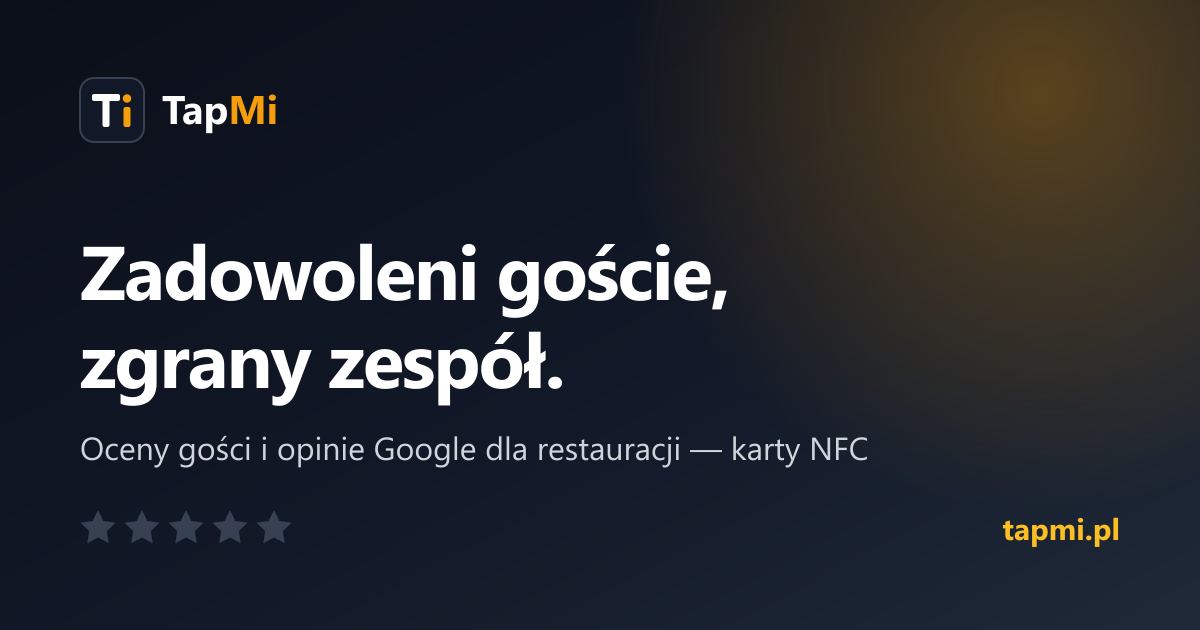
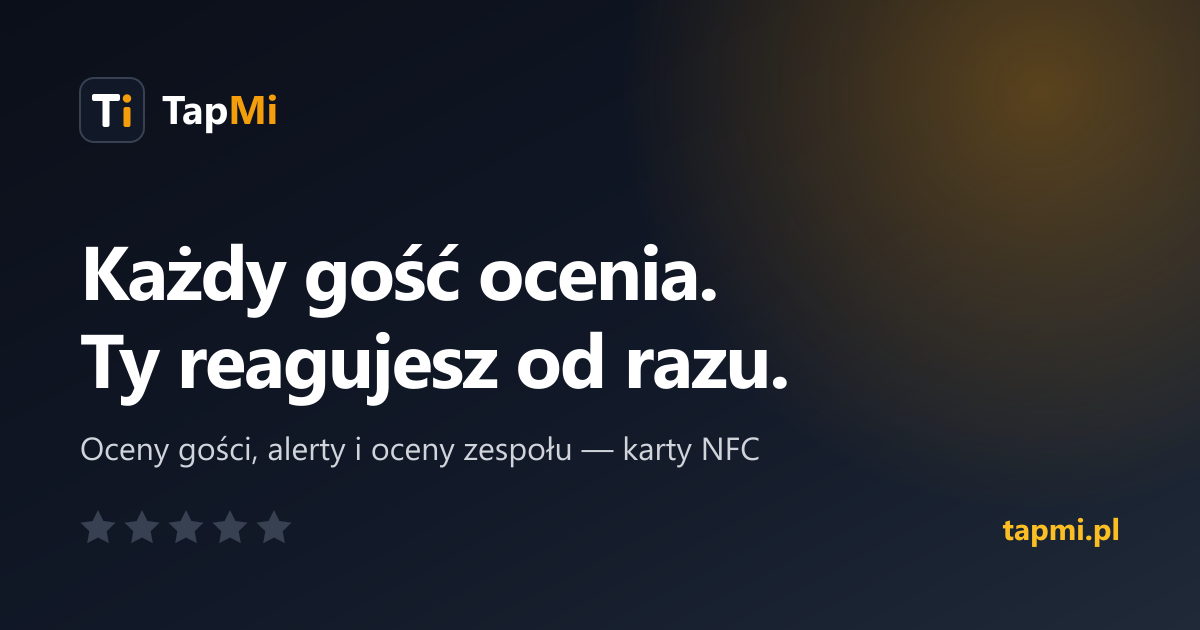
Lead with TapMi, not Google: new slogan "Każdy gość ocenia. Ty reagujesz od razu.", Google cut from 13 to 3 visible mentions, new share image

Changed region(s): [[0.0617, 0.3921, 0.6783, 0.6635], [0.2158, 0.6937, 0.74, 0.754]]

diff --git a/public/index.html b/public/index.html
@@ -3,14 +3,14 @@
 <head>
 <meta charset="UTF-8">
 <meta name="viewport" content="width=device-width, initial-scale=1">
-<title>Opinie Google dla restauracji – karty NFC | TapMi</title>
-<meta name="description" content="Karta NFC na stoliku: goście oceniają wizytę w kilka sekund, a o niskiej ocenie wiesz od razu. Więcej zaproszeń do opinii Google, zgodnie z zasadami.">
+<title>Oceny gości i opinie Google – karty NFC dla restauracji | TapMi</title>
+<meta name="description" content="Karta NFC na stoliku: gość ocenia wizytę w kilka sekund, a o niskiej ocenie wiesz od razu. Oceny zespołu i zaproszenie do opinii Google dla każdego.">
 <link rel="canonical" href="https://tapmi.pl/">
 <link rel="alternate" hreflang="pl" href="https://tapmi.pl/">
 <link rel="alternate" hreflang="en" href="https://tapmi.pl/en/">
 <link rel="alternate" hreflang="x-default" href="https://tapmi.pl/">
-<meta property="og:title" content="Opinie Google dla restauracji – karty NFC | TapMi">
-<meta property="og:description" content="Karta NFC na stoliku: goście oceniają wizytę w kilka sekund, a o niskiej ocenie wiesz od razu. Więcej zaproszeń do opinii Google, zgodnie z zasadami.">
+<meta property="og:title" content="Oceny gości i opinie Google – karty NFC dla restauracji | TapMi">
+<meta property="og:description" content="Karta NFC na stoliku: gość ocenia wizytę w kilka sekund, a o niskiej ocenie wiesz od razu. Oceny zespołu i zaproszenie do opinii Google dla każdego.">
 <meta property="og:type" content="website">
 <meta property="og:url" content="https://tapmi.pl/">
 <meta property="og:locale" content="pl_PL">
@@ -22,7 +22,7 @@
 <meta name="twitter:card" content="summary_large_image">
 <meta name="robots" content="index, follow, max-image-preview:large">
 <meta name="theme-color" content="#111827">
-<script type="application/ld+json">{"@context":"https://schema.org","@graph":[{"@type":"Organization","@id":"https://tapmi.pl/#org","name":"TapMi","legalName":"Jelly Soft","url":"https://tapmi.pl","logo":"https://tapmi.pl/icon-192.png","contactPoint":{"@type":"ContactPoint","telephone":"+48731262699","contactType":"sales","areaServed":"PL","availableLanguage":["pl","en"]}},{"@type":"WebSite","@id":"https://tapmi.pl/#site","url":"https://tapmi.pl","name":"TapMi","inLanguage":"pl","publisher":{"@id":"https://tapmi.pl/#org"}},{"@type":"SoftwareApplication","name":"TapMi","applicationCategory":"BusinessApplication","operatingSystem":"Web","url":"https://tapmi.pl/","description":"Karta NFC na stoliku: goście oceniają wizytę w kilka sekund, a o niskiej ocenie wiesz od razu. Więcej zaproszeń do opinii Google, zgodnie z zasadami.","provider":{"@id":"https://tapmi.pl/#org"},"audience":{"@type":"BusinessAudience","audienceType":"Restauracje, kawiarnie, bary"}},{"@type":"FAQPage","inLanguage":"pl","mainEntity":[{"@type":"Question","name":"Ile to kosztuje?","acceptedAnswer":{"@type":"Answer","text":"Cena zależy od liczby lokali i kart — dobieramy ją do Twojego lokalu. Konkretną propozycję przedstawimy na bezpłatnym demo, bez zobowiązań."}},{"@type":"Question","name":"Czy mogę najpierw spróbować?","acceptedAnswer":{"@type":"Answer","text":"Tak. Pierwsze 30 dni w jednym lokalu są bezpłatne, bez podawania karty płatniczej. Jeśli nie zostaniesz, karty zostają u Ciebie."}},{"@type":"Question","name":"Czego potrzebuję? Jaki sprzęt?","acceptedAnswer":{"@type":"Answer","text":"Tylko kart TapMi z kodem QR — przygotowujemy je dla Ciebie. Gość używa własnego telefonu, a Ty panelu w przeglądarce. Nic nie instalujesz."}},{"@type":"Question","name":"Ile trwa uruchomienie?","acceptedAnswer":{"@type":"Answer","text":"Zwykle do tygodnia od demo. Konfigurujemy lokal i przygotowujemy karty, Ty dodajesz tylko imiona kelnerów."}},{"@type":"Question","name":"Co widzi gość?","acceptedAnswer":{"@type":"Answer","text":"Twoje logo, pięć gwiazdek i przycisk „Oceń nas w Google” — zawsze ten sam. Opcjonalnie prywatna wiadomość i Instagram. Po polsku, ukraińsku lub angielsku."}},{"@type":"Question","name":"Czy widzicie, ile opinii dodali goście?","acceptedAnswer":{"@type":"Answer","text":"W panelu widzisz „przejścia do opinii”, czyli kliknięcia przycisku. Nie widzimy, czy gość faktycznie dodał opinię, i nie obiecujemy konkretnej liczby."}},{"@type":"Question","name":"Czy menedżer potrzebuje konta?","acceptedAnswer":{"@type":"Answer","text":"Nie. Menedżer dostaje osobisty link do alertów na telefon i e-mail. Panel i ustawienia zostają u właściciela. Jest też tryb ciemny na wieczorny serwis."}},{"@type":"Question","name":"Co z danymi i RODO?","acceptedAnswer":{"@type":"Answer","text":"Gość nie zakłada konta i nie podaje imienia ani e-maila. Zapisujemy ocenę, opcjonalny komentarz, godzinę i kartę. Członków zespołu wpisujesz tylko z imienia, a ich oceny widzisz wyłącznie Ty."}},{"@type":"Question","name":"Czy muszę podpisać długą umowę?","acceptedAnswer":{"@type":"Answer","text":"Nie. Umowa jest na czas nieokreślony z miesięcznym okresem wypowiedzenia. Zostajesz, bo to działa — a nie dlatego, że musisz."}}]}]}</script>
+<script type="application/ld+json">{"@context":"https://schema.org","@graph":[{"@type":"Organization","@id":"https://tapmi.pl/#org","name":"TapMi","legalName":"Jelly Soft","url":"https://tapmi.pl","logo":"https://tapmi.pl/icon-192.png","contactPoint":{"@type":"ContactPoint","telephone":"+48731262699","contactType":"sales","areaServed":"PL","availableLanguage":["pl","en"]}},{"@type":"WebSite","@id":"https://tapmi.pl/#site","url":"https://tapmi.pl","name":"TapMi","inLanguage":"pl","publisher":{"@id":"https://tapmi.pl/#org"}},{"@type":"SoftwareApplication","name":"TapMi","applicationCategory":"BusinessApplication","operatingSystem":"Web","url":"https://tapmi.pl/","description":"Karta NFC na stoliku: gość ocenia wizytę w kilka sekund, a o niskiej ocenie wiesz od razu. Oceny zespołu i zaproszenie do opinii Google dla każdego.","provider":{"@id":"https://tapmi.pl/#org"},"audience":{"@type":"BusinessAudience","audienceType":"Restauracje, kawiarnie, bary"}},{"@type":"FAQPage","inLanguage":"pl","mainEntity":[{"@type":"Question","name":"Ile to kosztuje?","acceptedAnswer":{"@type":"Answer","text":"Cena zależy od liczby lokali i kart — dobieramy ją do Twojego lokalu. Konkretną propozycję przedstawimy na bezpłatnym demo, bez zobowiązań."}},{"@type":"Question","name":"Czy mogę najpierw spróbować?","acceptedAnswer":{"@type":"Answer","text":"Tak. Pierwsze 30 dni w jednym lokalu są bezpłatne, bez podawania karty płatniczej. Jeśli nie zostaniesz, karty zostają u Ciebie."}},{"@type":"Question","name":"Czego potrzebuję? Jaki sprzęt?","acceptedAnswer":{"@type":"Answer","text":"Tylko kart TapMi z kodem QR — przygotowujemy je dla Ciebie. Gość używa własnego telefonu, a Ty panelu w przeglądarce. Nic nie instalujesz."}},{"@type":"Question","name":"Ile trwa uruchomienie?","acceptedAnswer":{"@type":"Answer","text":"Zwykle do tygodnia od demo. Konfigurujemy lokal i przygotowujemy karty, Ty dodajesz tylko imiona kelnerów."}},{"@type":"Question","name":"Co widzi gość?","acceptedAnswer":{"@type":"Answer","text":"Twoje logo, pięć gwiazdek i przycisk „Oceń nas w Google” — zawsze ten sam. Opcjonalnie prywatna wiadomość i Instagram. Po polsku, ukraińsku lub angielsku."}},{"@type":"Question","name":"Czy widzicie, ile opinii dodali goście?","acceptedAnswer":{"@type":"Answer","text":"W panelu widzisz „przejścia do opinii”, czyli kliknięcia przycisku. Nie widzimy, czy gość faktycznie dodał opinię, i nie obiecujemy konkretnej liczby."}},{"@type":"Question","name":"Czy menedżer potrzebuje konta?","acceptedAnswer":{"@type":"Answer","text":"Nie. Menedżer dostaje osobisty link do alertów na telefon i e-mail. Panel i ustawienia zostają u właściciela. Jest też tryb ciemny na wieczorny serwis."}},{"@type":"Question","name":"Co z danymi i RODO?","acceptedAnswer":{"@type":"Answer","text":"Gość nie zakłada konta i nie podaje imienia ani e-maila. Zapisujemy ocenę, opcjonalny komentarz, godzinę i kartę. Członków zespołu wpisujesz tylko z imienia, a ich oceny widzisz wyłącznie Ty."}},{"@type":"Question","name":"Czy muszę podpisać długą umowę?","acceptedAnswer":{"@type":"Answer","text":"Nie. Umowa jest na czas nieokreślony z miesięcznym okresem wypowiedzenia. Zostajesz, bo to działa — a nie dlatego, że musisz."}}]}]}</script>
 <link rel="icon" href="/favicon.svg" type="image/svg+xml">
 <link rel="icon" href="/icon-192.png" type="image/png" sizes="192x192">
 <link rel="preload" href="/fonts/inter-latin-wght-normal.woff2" as="font" type="font/woff2" crossorigin>
@@ -56,15 +56,15 @@
   <div class="glow" aria-hidden="true"></div>
   <div class="wrap hero-grid">
     <div class="hero-copy">
-      <p class="eyebrow load" style="--d:0">Opinie Google i oceny gości · restauracje i kawiarnie</p>
-      <h1 class="load" style="--d:1">Więcej opinii Google. O słabej wizycie wiesz od razu.</h1>
+      <p class="eyebrow load" style="--d:0">Oceny gości · alerty · oceny zespołu</p>
+      <h1 class="load hero-title" style="--d:1"><span class="h1-line">Każdy gość ocenia.</span> <span class="h1-line">Ty reagujesz od razu.</span></h1>
       <p class="lead load" style="--d:2">Karta NFC na stole. Gość ocenia w 5 sekund.</p>
       <div class="hero-ctas load" style="--d:3">
         <a class="btn btn-light magnet" href="#demo">Umów bezpłatne demo <span class="arrow"><svg class="ic" width="18" height="18" viewBox="0 0 24 24" fill="none" stroke="currentColor" stroke-width="1.75" stroke-linecap="round" stroke-linejoin="round" aria-hidden="true"><path d="M5 12h14"/><path d="m12 5 7 7-7 7"/></svg></span></a>
         <a class="btn btn-ghost hide-sm" href="#how">Zobacz, jak to działa</a>
       </div>
       <p class="hero-note load" style="--d:3">Pierwsze 30 dni za darmo · bez karty płatniczej</p>
-      <ul class="chips load" style="--d:4"><li><svg class="ic" width="15" height="15" viewBox="0 0 24 24" fill="none" stroke="currentColor" stroke-width="1.75" stroke-linecap="round" stroke-linejoin="round" aria-hidden="true"><rect x="6" y="2" width="12" height="20" rx="2.5"/><path d="M11 18h2"/></svg> Bez aplikacji</li><li><svg class="ic" width="15" height="15" viewBox="0 0 24 24" fill="none" stroke="currentColor" stroke-width="1.75" stroke-linecap="round" stroke-linejoin="round" aria-hidden="true"><path d="M12 22s8-4 8-10V5l-8-3-8 3v7c0 6 8 10 8 10"/><path d="m9 12 2 2 4-4"/></svg> Zgodne z Google</li><li><svg class="ic" width="15" height="15" viewBox="0 0 24 24" fill="none" stroke="currentColor" stroke-width="1.75" stroke-linecap="round" stroke-linejoin="round" aria-hidden="true"><path d="M20 6 9 17l-5-5"/></svg> Telefon i PC</li></ul>
+      <ul class="chips load" style="--d:4"><li><svg class="ic" width="15" height="15" viewBox="0 0 24 24" fill="none" stroke="currentColor" stroke-width="1.75" stroke-linecap="round" stroke-linejoin="round" aria-hidden="true"><rect x="6" y="2" width="12" height="20" rx="2.5"/><path d="M11 18h2"/></svg> Bez aplikacji</li><li><svg class="ic" width="15" height="15" viewBox="0 0 24 24" fill="none" stroke="currentColor" stroke-width="1.75" stroke-linecap="round" stroke-linejoin="round" aria-hidden="true"><path d="M12 22s8-4 8-10V5l-8-3-8 3v7c0 6 8 10 8 10"/><path d="m9 12 2 2 4-4"/></svg> Zgodne z zasadami</li><li><svg class="ic" width="15" height="15" viewBox="0 0 24 24" fill="none" stroke="currentColor" stroke-width="1.75" stroke-linecap="round" stroke-linejoin="round" aria-hidden="true"><path d="M20 6 9 17l-5-5"/></svg> Telefon i PC</li></ul>
     </div>
     <div class="hero-visual" id="story">
       <div class="story" aria-hidden="true">
@@ -105,7 +105,7 @@
     <div class="sec-head" data-r="up"><p class="eyebrow">Jak to działa</p><h2>Trzy kroki, kilka sekund</h2></div>
     <ol class="steps"><span class="steps-line" aria-hidden="true"></span>
       <li class="step" data-r="up"><span class="num">1</span><div><h3>Gość przykłada telefon</h3><p>Do karty NFC — albo skanuje kod QR.</p></div></li>
-      <li class="step" data-r="up"><span class="num">2</span><div><h3>Ocenia gwiazdkami</h3><p>Potem to samo zaproszenie do Google dla każdego.</p></div></li>
+      <li class="step" data-r="up"><span class="num">2</span><div><h3>Ocenia gwiazdkami</h3><p>Potem to samo zaproszenie do opinii dla każdego.</p></div></li>
       <li class="step" data-r="up"><span class="num">3</span><div><h3>Ty wiesz od razu</h3><p>Ocena 1–3★ przychodzi na Twój telefon.</p></div></li>
     </ol>
   </div>
@@ -132,10 +132,10 @@
 <section class="sec light" id="google">
   <div class="wrap narrow center" data-r="up">
     <span class="shield"><svg class="ic" width="26" height="26" viewBox="0 0 24 24" fill="none" stroke="currentColor" stroke-width="1.75" stroke-linecap="round" stroke-linejoin="round" aria-hidden="true"><path d="M12 22s8-4 8-10V5l-8-3-8 3v7c0 6 8 10 8 10"/><path d="m9 12 2 2 4-4"/></svg></span>
-    <p class="eyebrow">Zgodność z Google</p><h2>To samo zaproszenie dla każdego</h2>
+    <p class="eyebrow">Bez filtrowania opinii</p><h2>To samo zaproszenie dla każdego</h2>
     <p class="lead dark-ink">Każda ocena, od 1 do 5★, widzi ten sam przycisk Google. Prywatna wiadomość to dodatek — nigdy zamiast opinii.</p>
     <div class="same para" aria-hidden="true">
-      <div class="same-row" style="--i:0"><span class="same-stars">★<i>★★★★</i></span><span class="same-arrow">→</span><span class="same-btn"><span class="g-g">G</span> Google</span></div><div class="same-row" style="--i:1"><span class="same-stars">★★<i>★★★</i></span><span class="same-arrow">→</span><span class="same-btn"><span class="g-g">G</span> Google</span></div><div class="same-row" style="--i:2"><span class="same-stars">★★★<i>★★</i></span><span class="same-arrow">→</span><span class="same-btn"><span class="g-g">G</span> Google</span></div><div class="same-row" style="--i:3"><span class="same-stars">★★★★<i>★</i></span><span class="same-arrow">→</span><span class="same-btn"><span class="g-g">G</span> Google</span></div><div class="same-row" style="--i:4"><span class="same-stars">★★★★★<i></i></span><span class="same-arrow">→</span><span class="same-btn"><span class="g-g">G</span> Google</span></div>
+      <div class="same-row" style="--i:0"><span class="same-stars">★<i>★★★★</i></span><span class="same-arrow">→</span><span class="same-btn"><span class="g-g">G</span> Opinia</span></div><div class="same-row" style="--i:1"><span class="same-stars">★★<i>★★★</i></span><span class="same-arrow">→</span><span class="same-btn"><span class="g-g">G</span> Opinia</span></div><div class="same-row" style="--i:2"><span class="same-stars">★★★<i>★★</i></span><span class="same-arrow">→</span><span class="same-btn"><span class="g-g">G</span> Opinia</span></div><div class="same-row" style="--i:3"><span class="same-stars">★★★★<i>★</i></span><span class="same-arrow">→</span><span class="same-btn"><span class="g-g">G</span> Opinia</span></div><div class="same-row" style="--i:4"><span class="same-stars">★★★★★<i></i></span><span class="same-arrow">→</span><span class="same-btn"><span class="g-g">G</span> Opinia</span></div>
       <p class="same-cap"><svg class="ic" width="15" height="15" viewBox="0 0 24 24" fill="none" stroke="currentColor" stroke-width="1.75" stroke-linecap="round" stroke-linejoin="round" aria-hidden="true"><path d="M20 6 9 17l-5-5"/></svg> Ten sam przycisk przy każdej ocenie</p>
     </div>
   </div>

diff --git a/public/en/index.html b/public/en/index.html
@@ -3,14 +3,14 @@
 <head>
 <meta charset="UTF-8">
 <meta name="viewport" content="width=device-width, initial-scale=1">
-<title>Google Reviews for Restaurants – NFC Cards | TapMi</title>
-<meta name="description" content="An NFC card on the table: guests rate their visit in seconds and you hear about low ratings at once. Every guest invited to review you on Google.">
+<title>Guest Ratings &amp; Google Reviews – NFC Cards for Restaurants | TapMi</title>
+<meta name="description" content="An NFC card on the table: guests rate their visit in seconds and you hear about low ratings at once. Team ratings, plus a Google review invite for every guest.">
 <link rel="canonical" href="https://tapmi.pl/en/">
 <link rel="alternate" hreflang="pl" href="https://tapmi.pl/">
 <link rel="alternate" hreflang="en" href="https://tapmi.pl/en/">
 <link rel="alternate" hreflang="x-default" href="https://tapmi.pl/">
-<meta property="og:title" content="Google Reviews for Restaurants – NFC Cards | TapMi">
-<meta property="og:description" content="An NFC card on the table: guests rate their visit in seconds and you hear about low ratings at once. Every guest invited to review you on Google.">
+<meta property="og:title" content="Guest Ratings &amp; Google Reviews – NFC Cards for Restaurants | TapMi">
+<meta property="og:description" content="An NFC card on the table: guests rate their visit in seconds and you hear about low ratings at once. Team ratings, plus a Google review invite for every guest.">
 <meta property="og:type" content="website">
 <meta property="og:url" content="https://tapmi.pl/en/">
 <meta property="og:locale" content="en_GB">
@@ -22,7 +22,7 @@
 <meta name="twitter:card" content="summary_large_image">
 <meta name="robots" content="index, follow, max-image-preview:large">
 <meta name="theme-color" content="#111827">
-<script type="application/ld+json">{"@context":"https://schema.org","@graph":[{"@type":"Organization","@id":"https://tapmi.pl/#org","name":"TapMi","legalName":"Jelly Soft","url":"https://tapmi.pl","logo":"https://tapmi.pl/icon-192.png","contactPoint":{"@type":"ContactPoint","telephone":"+48731262699","contactType":"sales","areaServed":"PL","availableLanguage":["pl","en"]}},{"@type":"WebSite","@id":"https://tapmi.pl/#site","url":"https://tapmi.pl","name":"TapMi","inLanguage":"en","publisher":{"@id":"https://tapmi.pl/#org"}},{"@type":"SoftwareApplication","name":"TapMi","applicationCategory":"BusinessApplication","operatingSystem":"Web","url":"https://tapmi.pl/en/","description":"An NFC card on the table: guests rate their visit in seconds and you hear about low ratings at once. Every guest invited to review you on Google.","provider":{"@id":"https://tapmi.pl/#org"},"audience":{"@type":"BusinessAudience","audienceType":"Restaurants, cafés, bars"}},{"@type":"FAQPage","inLanguage":"en","mainEntity":[{"@type":"Question","name":"How much does it cost?","acceptedAnswer":{"@type":"Answer","text":"It depends on how many venues and cards you need, so we tailor it to you. You’ll get a clear offer at the free demo, with no obligation."}},{"@type":"Question","name":"Can I try it first?","acceptedAnswer":{"@type":"Answer","text":"Yes. Your first 30 days at one venue are free, with no card details needed. If you decide not to continue, keep the cards."}},{"@type":"Question","name":"What do I need? Any hardware?","acceptedAnswer":{"@type":"Answer","text":"Just the TapMi cards with a QR code — we prepare them for you. Guests use their own phones and you use the dashboard in a browser. Nothing to install."}},{"@type":"Question","name":"How long does setup take?","acceptedAnswer":{"@type":"Answer","text":"Usually within a week of the demo. We set up your venue and prepare the cards — you just add your staff’s first names."}},{"@type":"Question","name":"What does the guest see?","acceptedAnswer":{"@type":"Answer","text":"Your logo, five stars and a “Review us on Google” button — always the same. Optionally a private note and Instagram. In Polish, Ukrainian or English."}},{"@type":"Question","name":"Can you see how many reviews guests posted?","acceptedAnswer":{"@type":"Answer","text":"Your dashboard shows “sent to review sites” — taps on the button. We can’t see whether the guest posted, so we never promise a number of reviews."}},{"@type":"Question","name":"Does a manager need an account?","acceptedAnswer":{"@type":"Answer","text":"No. Managers get a personal link for alerts by phone and email; the dashboard and settings stay with the owner. There’s also a dark mode for evening service."}},{"@type":"Question","name":"What about data and GDPR?","acceptedAnswer":{"@type":"Answer","text":"Guests don’t sign up or give a name or email. We store the rating, the optional comment, the time and the card. Staff are added by first name only, and only you see their ratings."}},{"@type":"Question","name":"Do I have to sign a long contract?","acceptedAnswer":{"@type":"Answer","text":"No. It’s an open-ended agreement with one month’s notice. You stay because it works, not because you have to."}}]}]}</script>
+<script type="application/ld+json">{"@context":"https://schema.org","@graph":[{"@type":"Organization","@id":"https://tapmi.pl/#org","name":"TapMi","legalName":"Jelly Soft","url":"https://tapmi.pl","logo":"https://tapmi.pl/icon-192.png","contactPoint":{"@type":"ContactPoint","telephone":"+48731262699","contactType":"sales","areaServed":"PL","availableLanguage":["pl","en"]}},{"@type":"WebSite","@id":"https://tapmi.pl/#site","url":"https://tapmi.pl","name":"TapMi","inLanguage":"en","publisher":{"@id":"https://tapmi.pl/#org"}},{"@type":"SoftwareApplication","name":"TapMi","applicationCategory":"BusinessApplication","operatingSystem":"Web","url":"https://tapmi.pl/en/","description":"An NFC card on the table: guests rate their visit in seconds and you hear about low ratings at once. Team ratings, plus a Google review invite for every guest.","provider":{"@id":"https://tapmi.pl/#org"},"audience":{"@type":"BusinessAudience","audienceType":"Restaurants, cafés, bars"}},{"@type":"FAQPage","inLanguage":"en","mainEntity":[{"@type":"Question","name":"How much does it cost?","acceptedAnswer":{"@type":"Answer","text":"It depends on how many venues and cards you need, so we tailor it to you. You’ll get a clear offer at the free demo, with no obligation."}},{"@type":"Question","name":"Can I try it first?","acceptedAnswer":{"@type":"Answer","text":"Yes. Your first 30 days at one venue are free, with no card details needed. If you decide not to continue, keep the cards."}},{"@type":"Question","name":"What do I need? Any hardware?","acceptedAnswer":{"@type":"Answer","text":"Just the TapMi cards with a QR code — we prepare them for you. Guests use their own phones and you use the dashboard in a browser. Nothing to install."}},{"@type":"Question","name":"How long does setup take?","acceptedAnswer":{"@type":"Answer","text":"Usually within a week of the demo. We set up your venue and prepare the cards — you just add your staff’s first names."}},{"@type":"Question","name":"What does the guest see?","acceptedAnswer":{"@type":"Answer","text":"Your logo, five stars and a “Review us on Google” button — always the same. Optionally a private note and Instagram. In Polish, Ukrainian or English."}},{"@type":"Question","name":"Can you see how many reviews guests posted?","acceptedAnswer":{"@type":"Answer","text":"Your dashboard shows “sent to review sites” — taps on the button. We can’t see whether the guest posted, so we never promise a number of reviews."}},{"@type":"Question","name":"Does a manager need an account?","acceptedAnswer":{"@type":"Answer","text":"No. Managers get a personal link for alerts by phone and email; the dashboard and settings stay with the owner. There’s also a dark mode for evening service."}},{"@type":"Question","name":"What about data and GDPR?","acceptedAnswer":{"@type":"Answer","text":"Guests don’t sign up or give a name or email. We store the rating, the optional comment, the time and the card. Staff are added by first name only, and only you see their ratings."}},{"@type":"Question","name":"Do I have to sign a long contract?","acceptedAnswer":{"@type":"Answer","text":"No. It’s an open-ended agreement with one month’s notice. You stay because it works, not because you have to."}}]}]}</script>
 <link rel="icon" href="/favicon.svg" type="image/svg+xml">
 <link rel="icon" href="/icon-192.png" type="image/png" sizes="192x192">
 <link rel="preload" href="/fonts/inter-latin-wght-normal.woff2" as="font" type="font/woff2" crossorigin>
@@ -56,15 +56,15 @@
   <div class="glow" aria-hidden="true"></div>
   <div class="wrap hero-grid">
     <div class="hero-copy">
-      <p class="eyebrow load" style="--d:0">Google reviews &amp; guest ratings · restaurants and cafés</p>
-      <h1 class="load" style="--d:1">More Google reviews. Hear about a bad visit at once.</h1>
+      <p class="eyebrow load" style="--d:0">Guest ratings · instant alerts · team ratings</p>
+      <h1 class="load hero-title" style="--d:1"><span class="h1-line">Every guest rates.</span> <span class="h1-line">You react right away.</span></h1>
       <p class="lead load" style="--d:2">An NFC card on the table. Guests rate in 5 seconds.</p>
       <div class="hero-ctas load" style="--d:3">
         <a class="btn btn-light magnet" href="#demo">Book a free demo <span class="arrow"><svg class="ic" width="18" height="18" viewBox="0 0 24 24" fill="none" stroke="currentColor" stroke-width="1.75" stroke-linecap="round" stroke-linejoin="round" aria-hidden="true"><path d="M5 12h14"/><path d="m12 5 7 7-7 7"/></svg></span></a>
         <a class="btn btn-ghost hide-sm" href="#how">See how it works</a>
       </div>
       <p class="hero-note load" style="--d:3">First 30 days free · no card needed</p>
-      <ul class="chips load" style="--d:4"><li><svg class="ic" width="15" height="15" viewBox="0 0 24 24" fill="none" stroke="currentColor" stroke-width="1.75" stroke-linecap="round" stroke-linejoin="round" aria-hidden="true"><rect x="6" y="2" width="12" height="20" rx="2.5"/><path d="M11 18h2"/></svg> No app</li><li><svg class="ic" width="15" height="15" viewBox="0 0 24 24" fill="none" stroke="currentColor" stroke-width="1.75" stroke-linecap="round" stroke-linejoin="round" aria-hidden="true"><path d="M12 22s8-4 8-10V5l-8-3-8 3v7c0 6 8 10 8 10"/><path d="m9 12 2 2 4-4"/></svg> Google-safe</li><li><svg class="ic" width="15" height="15" viewBox="0 0 24 24" fill="none" stroke="currentColor" stroke-width="1.75" stroke-linecap="round" stroke-linejoin="round" aria-hidden="true"><path d="M20 6 9 17l-5-5"/></svg> Phone &amp; PC</li></ul>
+      <ul class="chips load" style="--d:4"><li><svg class="ic" width="15" height="15" viewBox="0 0 24 24" fill="none" stroke="currentColor" stroke-width="1.75" stroke-linecap="round" stroke-linejoin="round" aria-hidden="true"><rect x="6" y="2" width="12" height="20" rx="2.5"/><path d="M11 18h2"/></svg> No app</li><li><svg class="ic" width="15" height="15" viewBox="0 0 24 24" fill="none" stroke="currentColor" stroke-width="1.75" stroke-linecap="round" stroke-linejoin="round" aria-hidden="true"><path d="M12 22s8-4 8-10V5l-8-3-8 3v7c0 6 8 10 8 10"/><path d="m9 12 2 2 4-4"/></svg> Fair by design</li><li><svg class="ic" width="15" height="15" viewBox="0 0 24 24" fill="none" stroke="currentColor" stroke-width="1.75" stroke-linecap="round" stroke-linejoin="round" aria-hidden="true"><path d="M20 6 9 17l-5-5"/></svg> Phone &amp; PC</li></ul>
     </div>
     <div class="hero-visual" id="story">
       <div class="story" aria-hidden="true">
@@ -105,7 +105,7 @@
     <div class="sec-head" data-r="up"><p class="eyebrow">How it works</p><h2>Three steps, a few seconds</h2></div>
     <ol class="steps"><span class="steps-line" aria-hidden="true"></span>
       <li class="step" data-r="up"><span class="num">1</span><div><h3>The guest taps</h3><p>Their phone on the NFC card — or scans the QR.</p></div></li>
-      <li class="step" data-r="up"><span class="num">2</span><div><h3>Rates with stars</h3><p>Then the same Google invitation for everyone.</p></div></li>
+      <li class="step" data-r="up"><span class="num">2</span><div><h3>Rates with stars</h3><p>Then the same review invitation for everyone.</p></div></li>
       <li class="step" data-r="up"><span class="num">3</span><div><h3>You know instantly</h3><p>A 1–3★ rating pings your phone.</p></div></li>
     </ol>
   </div>
@@ -132,10 +132,10 @@
 <section class="sec light" id="google">
   <div class="wrap narrow center" data-r="up">
     <span class="shield"><svg class="ic" width="26" height="26" viewBox="0 0 24 24" fill="none" stroke="currentColor" stroke-width="1.75" stroke-linecap="round" stroke-linejoin="round" aria-hidden="true"><path d="M12 22s8-4 8-10V5l-8-3-8 3v7c0 6 8 10 8 10"/><path d="m9 12 2 2 4-4"/></svg></span>
-    <p class="eyebrow">Google-safe</p><h2>The same invitation for everyone</h2>
+    <p class="eyebrow">Fair by design</p><h2>The same invitation for everyone</h2>
     <p class="lead dark-ink">Every rating, 1 to 5★, sees the same Google button. The private note is an extra — never a replacement.</p>
     <div class="same para" aria-hidden="true">
-      <div class="same-row" style="--i:0"><span class="same-stars">★<i>★★★★</i></span><span class="same-arrow">→</span><span class="same-btn"><span class="g-g">G</span> Google</span></div><div class="same-row" style="--i:1"><span class="same-stars">★★<i>★★★</i></span><span class="same-arrow">→</span><span class="same-btn"><span class="g-g">G</span> Google</span></div><div class="same-row" style="--i:2"><span class="same-stars">★★★<i>★★</i></span><span class="same-arrow">→</span><span class="same-btn"><span class="g-g">G</span> Google</span></div><div class="same-row" style="--i:3"><span class="same-stars">★★★★<i>★</i></span><span class="same-arrow">→</span><span class="same-btn"><span class="g-g">G</span> Google</span></div><div class="same-row" style="--i:4"><span class="same-stars">★★★★★<i></i></span><span class="same-arrow">→</span><span class="same-btn"><span class="g-g">G</span> Google</span></div>
+      <div class="same-row" style="--i:0"><span class="same-stars">★<i>★★★★</i></span><span class="same-arrow">→</span><span class="same-btn"><span class="g-g">G</span> Review</span></div><div class="same-row" style="--i:1"><span class="same-stars">★★<i>★★★</i></span><span class="same-arrow">→</span><span class="same-btn"><span class="g-g">G</span> Review</span></div><div class="same-row" style="--i:2"><span class="same-stars">★★★<i>★★</i></span><span class="same-arrow">→</span><span class="same-btn"><span class="g-g">G</span> Review</span></div><div class="same-row" style="--i:3"><span class="same-stars">★★★★<i>★</i></span><span class="same-arrow">→</span><span class="same-btn"><span class="g-g">G</span> Review</span></div><div class="same-row" style="--i:4"><span class="same-stars">★★★★★<i></i></span><span class="same-arrow">→</span><span class="same-btn"><span class="g-g">G</span> Review</span></div>
       <p class="same-cap"><svg class="ic" width="15" height="15" viewBox="0 0 24 24" fill="none" stroke="currentColor" stroke-width="1.75" stroke-linecap="round" stroke-linejoin="round" aria-hidden="true"><path d="M20 6 9 17l-5-5"/></svg> The same button after every rating</p>
     </div>
   </div>

diff --git a/src/copy.js b/src/copy.js
@@ -4,17 +4,17 @@
 module.exports = {
   pl: {
     lang: 'pl', other: 'en', otherLabel: 'EN', otherHref: '/en/', langLabel: 'English version',
-    title: 'Opinie Google dla restauracji – karty NFC | TapMi',
-    description: 'Karta NFC na stoliku: goście oceniają wizytę w kilka sekund, a o niskiej ocenie wiesz od razu. Więcej zaproszeń do opinii Google, zgodnie z zasadami.',
+    title: 'Oceny gości i opinie Google – karty NFC dla restauracji | TapMi',
+    description: 'Karta NFC na stoliku: gość ocenia wizytę w kilka sekund, a o niskiej ocenie wiesz od razu. Oceny zespołu i zaproszenie do opinii Google dla każdego.',
     nav: { how: 'Jak to działa', owner: 'Alerty', features: 'Funkcje', groups: 'Dla grup lokali', faq: 'FAQ', login: 'Zaloguj się', cta: 'Umów demo', menu: 'Otwórz menu' },
     skip: 'Przejdź do treści',
     hero: {
-      eyebrow: 'Opinie Google i oceny gości · restauracje i kawiarnie',
-      title: 'Więcej opinii Google. O słabej wizycie wiesz od razu.',
+      eyebrow: 'Oceny gości · alerty · oceny zespołu',
+      title: 'Każdy gość ocenia. Ty reagujesz od razu.',
       lead: 'Karta NFC na stole. Gość ocenia w 5 sekund.',
       cta: 'Umów bezpłatne demo', secondary: 'Zobacz, jak to działa',
       note: 'Pierwsze 30 dni za darmo · bez karty płatniczej',
-      chips: [['phone', 'Bez aplikacji'], ['shield', 'Zgodne z Google'], ['check', 'Telefon i PC']],
+      chips: [['phone', 'Bez aplikacji'], ['shield', 'Zgodne z zasadami'], ['check', 'Telefon i PC']],
     },
     mock: {
       venue: 'Bistro Pod Lipą', question: 'Jak oceniasz swoją wizytę?', note: '+ Prywatna wiadomość dla zespołu', google: 'Oceń nas w Google',
@@ -26,7 +26,7 @@ module.exports = {
       eyebrow: 'Jak to działa', title: 'Trzy kroki, kilka sekund',
       steps: [
         ['Gość przykłada telefon', 'Do karty NFC — albo skanuje kod QR.'],
-        ['Ocenia gwiazdkami', 'Potem to samo zaproszenie do Google dla każdego.'],
+        ['Ocenia gwiazdkami', 'Potem to samo zaproszenie do opinii dla każdego.'],
         ['Ty wiesz od razu', 'Ocena 1–3★ przychodzi na Twój telefon.'],
       ],
     },
@@ -37,9 +37,9 @@ module.exports = {
       resolved: 'Załatwione', resolvedNote: 'Deser na koszt lokalu',
     },
     google: {
-      eyebrow: 'Zgodność z Google', title: 'To samo zaproszenie dla każdego',
+      eyebrow: 'Bez filtrowania opinii', title: 'To samo zaproszenie dla każdego',
       body: 'Każda ocena, od 1 do 5★, widzi ten sam przycisk Google. Prywatna wiadomość to dodatek — nigdy zamiast opinii.',
-      caption: 'Ten sam przycisk przy każdej ocenie',
+      caption: 'Ten sam przycisk przy każdej ocenie', rowLabel: 'Opinia',
     },
     features: {
       eyebrow: 'Funkcje', title: 'Wszystko, czego potrzebujesz', swipe: 'Przesuń, aby zobaczyć więcej',
@@ -107,17 +107,17 @@ module.exports = {
 
   en: {
     lang: 'en', other: 'pl', otherLabel: 'PL', otherHref: '/', langLabel: 'Wersja polska',
-    title: 'Google Reviews for Restaurants – NFC Cards | TapMi',
-    description: 'An NFC card on the table: guests rate their visit in seconds and you hear about low ratings at once. Every guest invited to review you on Google.',
+    title: 'Guest Ratings & Google Reviews – NFC Cards for Restaurants | TapMi',
+    description: 'An NFC card on the table: guests rate their visit in seconds and you hear about low ratings at once. Team ratings, plus a Google review invite for every guest.',
     nav: { how: 'How it works', owner: 'Alerts', features: 'Features', groups: 'For groups', faq: 'FAQ', login: 'Log in', cta: 'Book a demo', menu: 'Open menu' },
     skip: 'Skip to content',
     hero: {
-      eyebrow: 'Google reviews & guest ratings · restaurants and cafés',
-      title: 'More Google reviews. Hear about a bad visit at once.',
+      eyebrow: 'Guest ratings · instant alerts · team ratings',
+      title: 'Every guest rates. You react right away.',
       lead: 'An NFC card on the table. Guests rate in 5 seconds.',
       cta: 'Book a free demo', secondary: 'See how it works',
       note: 'First 30 days free · no card needed',
-      chips: [['phone', 'No app'], ['shield', 'Google-safe'], ['check', 'Phone & PC']],
+      chips: [['phone', 'No app'], ['shield', 'Fair by design'], ['check', 'Phone & PC']],
     },
     mock: {
       venue: 'Bistro Pod Lipą', question: 'How was your visit?', note: '+ Private note for the team', google: 'Review us on Google',
@@ -129,7 +129,7 @@ module.exports = {
       eyebrow: 'How it works', title: 'Three steps, a few seconds',
       steps: [
         ['The guest taps', 'Their phone on the NFC card — or scans the QR.'],
-        ['Rates with stars', 'Then the same Google invitation for everyone.'],
+        ['Rates with stars', 'Then the same review invitation for everyone.'],
         ['You know instantly', 'A 1–3★ rating pings your phone.'],
       ],
     },
@@ -140,9 +140,9 @@ module.exports = {
       resolved: 'Resolved', resolvedNote: 'Dessert on the house',
     },
     google: {
-      eyebrow: 'Google-safe', title: 'The same invitation for everyone',
+      eyebrow: 'Fair by design', title: 'The same invitation for everyone',
       body: 'Every rating, 1 to 5★, sees the same Google button. The private note is an extra — never a replacement.',
-      caption: 'The same button after every rating',
+      caption: 'The same button after every rating', rowLabel: 'Review',
     },
     features: {
       eyebrow: 'Features', title: 'Everything you need', swipe: 'Swipe to see more',

diff --git a/build.js b/build.js
@@ -146,7 +146,7 @@ function page(t) {
   <div class="wrap hero-grid">
     <div class="hero-copy">
       <p class="eyebrow load" style="--d:0">${esc(t.hero.eyebrow)}</p>
-      <h1 class="load" style="--d:1">${esc(t.hero.title)}</h1>
+      <h1 class="load hero-title" style="--d:1">${t.hero.title.split(/(?<=\.) /).map(s => `<span class="h1-line">${esc(s)}</span>`).join(' ')}</h1>
       <p class="lead load" style="--d:2">${esc(t.hero.lead)}</p>
       <div class="hero-ctas load" style="--d:3">
         <a class="btn btn-light magnet" href="#demo">${esc(t.hero.cta)} <span class="arrow">${icon('arrow', 18)}</span></a>
@@ -222,7 +222,7 @@ function page(t) {
     <p class="eyebrow">${esc(t.google.eyebrow)}</p><h2>${esc(t.google.title)}</h2>
     <p class="lead dark-ink">${esc(t.google.body)}</p>
     <div class="same para" aria-hidden="true">
-      ${[1, 2, 3, 4, 5].map(n => `<div class="same-row" style="--i:${n - 1}"><span class="same-stars">${'★'.repeat(n)}<i>${'★'.repeat(5 - n)}</i></span><span class="same-arrow">→</span><span class="same-btn"><span class="g-g">G</span> Google</span></div>`).join('')}
+      ${[1, 2, 3, 4, 5].map(n => `<div class="same-row" style="--i:${n - 1}"><span class="same-stars">${'★'.repeat(n)}<i>${'★'.repeat(5 - n)}</i></span><span class="same-arrow">→</span><span class="same-btn"><span class="g-g">G</span> ${esc(t.google.rowLabel)}</span></div>`).join('')}
       <p class="same-cap">${icon('check', 15)} ${esc(t.google.caption)}</p>
     </div>
   </div>

diff --git a/public/site.css b/public/site.css
@@ -27,6 +27,8 @@ img, svg { display: block; }
 a { color: inherit; }
 h1, h2, h3 { color: var(--ink); margin: 0; text-wrap: balance; }
 h1 { font-size: clamp(2.3rem, 1.6rem + 3.2vw, 4rem); font-weight: 800; letter-spacing: -0.035em; line-height: 1.05; max-width: 15ch; }
+/* Hero slogan: one sentence per line on wider screens; on phones it flows. */
+@media (min-width: 640px) { .hero-title { max-width: none; font-size: clamp(2.2rem, 4vw, 3.25rem); } .hero-title .h1-line { display: block; } }
 h2 { font-size: clamp(1.7rem, 1.35rem + 1.6vw, 2.75rem); font-weight: 800; letter-spacing: -0.03em; line-height: 1.12; }
 h3 { font-size: 1.1rem; font-weight: 700; letter-spacing: -0.01em; }
 p { margin: 0; }

diff --git a/src/site.css b/src/site.css
@@ -27,6 +27,8 @@ img, svg { display: block; }
 a { color: inherit; }
 h1, h2, h3 { color: var(--ink); margin: 0; text-wrap: balance; }
 h1 { font-size: clamp(2.3rem, 1.6rem + 3.2vw, 4rem); font-weight: 800; letter-spacing: -0.035em; line-height: 1.05; max-width: 15ch; }
+/* Hero slogan: one sentence per line on wider screens; on phones it flows. */
+@media (min-width: 640px) { .hero-title { max-width: none; font-size: clamp(2.2rem, 4vw, 3.25rem); } .hero-title .h1-line { display: block; } }
 h2 { font-size: clamp(1.7rem, 1.35rem + 1.6vw, 2.75rem); font-weight: 800; letter-spacing: -0.03em; line-height: 1.12; }
 h3 { font-size: 1.1rem; font-weight: 700; letter-spacing: -0.01em; }
 p { margin: 0; }
